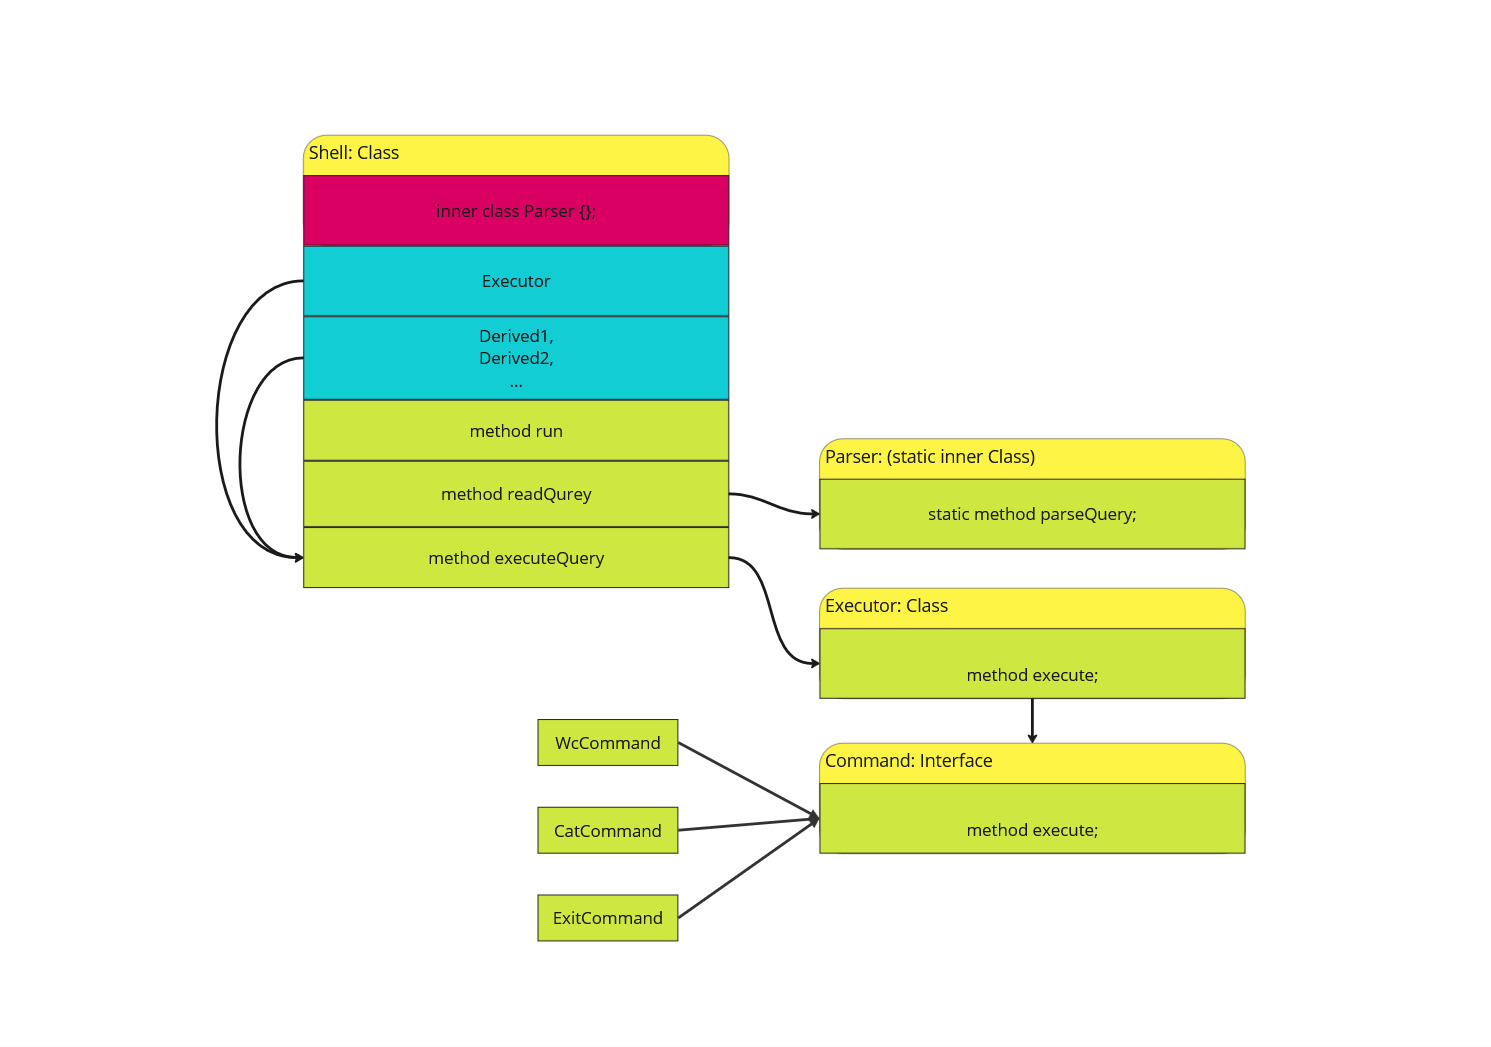
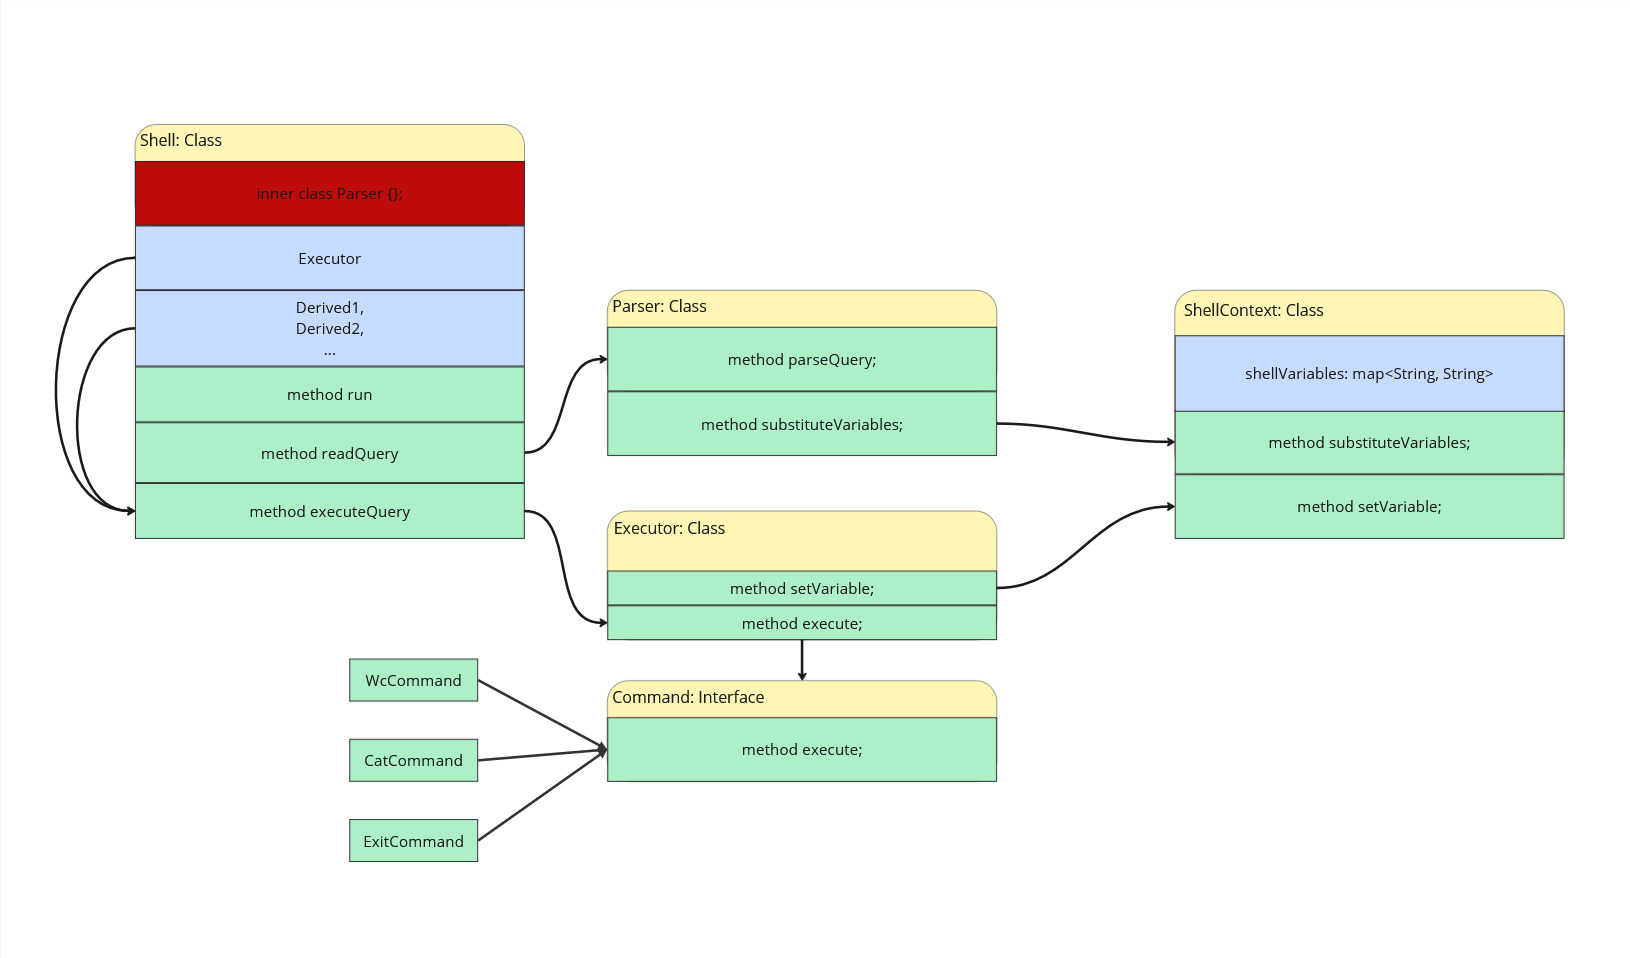
docs: update for ShellContext

diff --git a/docs/DesignDocument.md b/docs/DesignDocument.md
@@ -43,6 +43,13 @@ Several important architectural decisions should be highlighted.
 * Decision: Javacino supports the pipe (|) operator for chaining commands.
 * Rationale: Pipes allow users to combine multiple commands, where the output of one command becomes the input of the next. This is a fundamental feature of Unix-like shells. 
 
+4. Global vars support
+* Decision: ShellContext class is created to interact with both Parser and Executor
+* Rationale: global vars set() operation is a command, to be processed by Executor, and get() operation should be run before command call to decrease the risks of substitution being late.
+
+* Decision: global vars do not support pipes.
+* Rationale: doing so will seriously alter existing relationship b/w Parser and Executor.
+
 4. Testing Frameworks:
 * Decisions: use JUnit + Mockito.
 * Rationale: Familiarity, robust mocking capabilities for isolated testing.
@@ -52,7 +59,6 @@ Several important architectural decisions should be highlighted.
 
 ### 5.2 Component viewpoint
 Purpose: Describe runtime interactions
-<!-- TODO: add pic -->
 
 Interactions:
 1. Shell reads input -> Invokes Parser.

diff --git a/docs/Project_structure.md b/docs/Project_structure.md
@@ -45,6 +45,10 @@ In the base of Commands realization was chosen PicoCLI lib. It helps to make bas
     
     All command classes are implementations of this interface, which allows Executor to easily organize/schedule complex command expressions. Notable _Command_ implementations include _Exit_, which shuts down the CLI, and _ExternalCommand_, which runs the provided expression as external shell command.
 
+5. __ShellContext__ - responsible for the handling of global vars.
+* Methods:
+    * substituteVariables(String input) - replaces all global variables in input string with its values. The priority is given to saved values over system ones. If no variable with given name is found, an exception is thrown.
+    * setVariable(String name, String value) - sets the variable with given name to the given value. Can "overwrite" system variables: actual system var is unchanged, but trying to substitute it will result in the new value being returned.
 
 ### Testing environment
 Implemented with the __JUnit__ __framework__, this part of the project contains unit & integration tests used to verify correctness of the main part.
